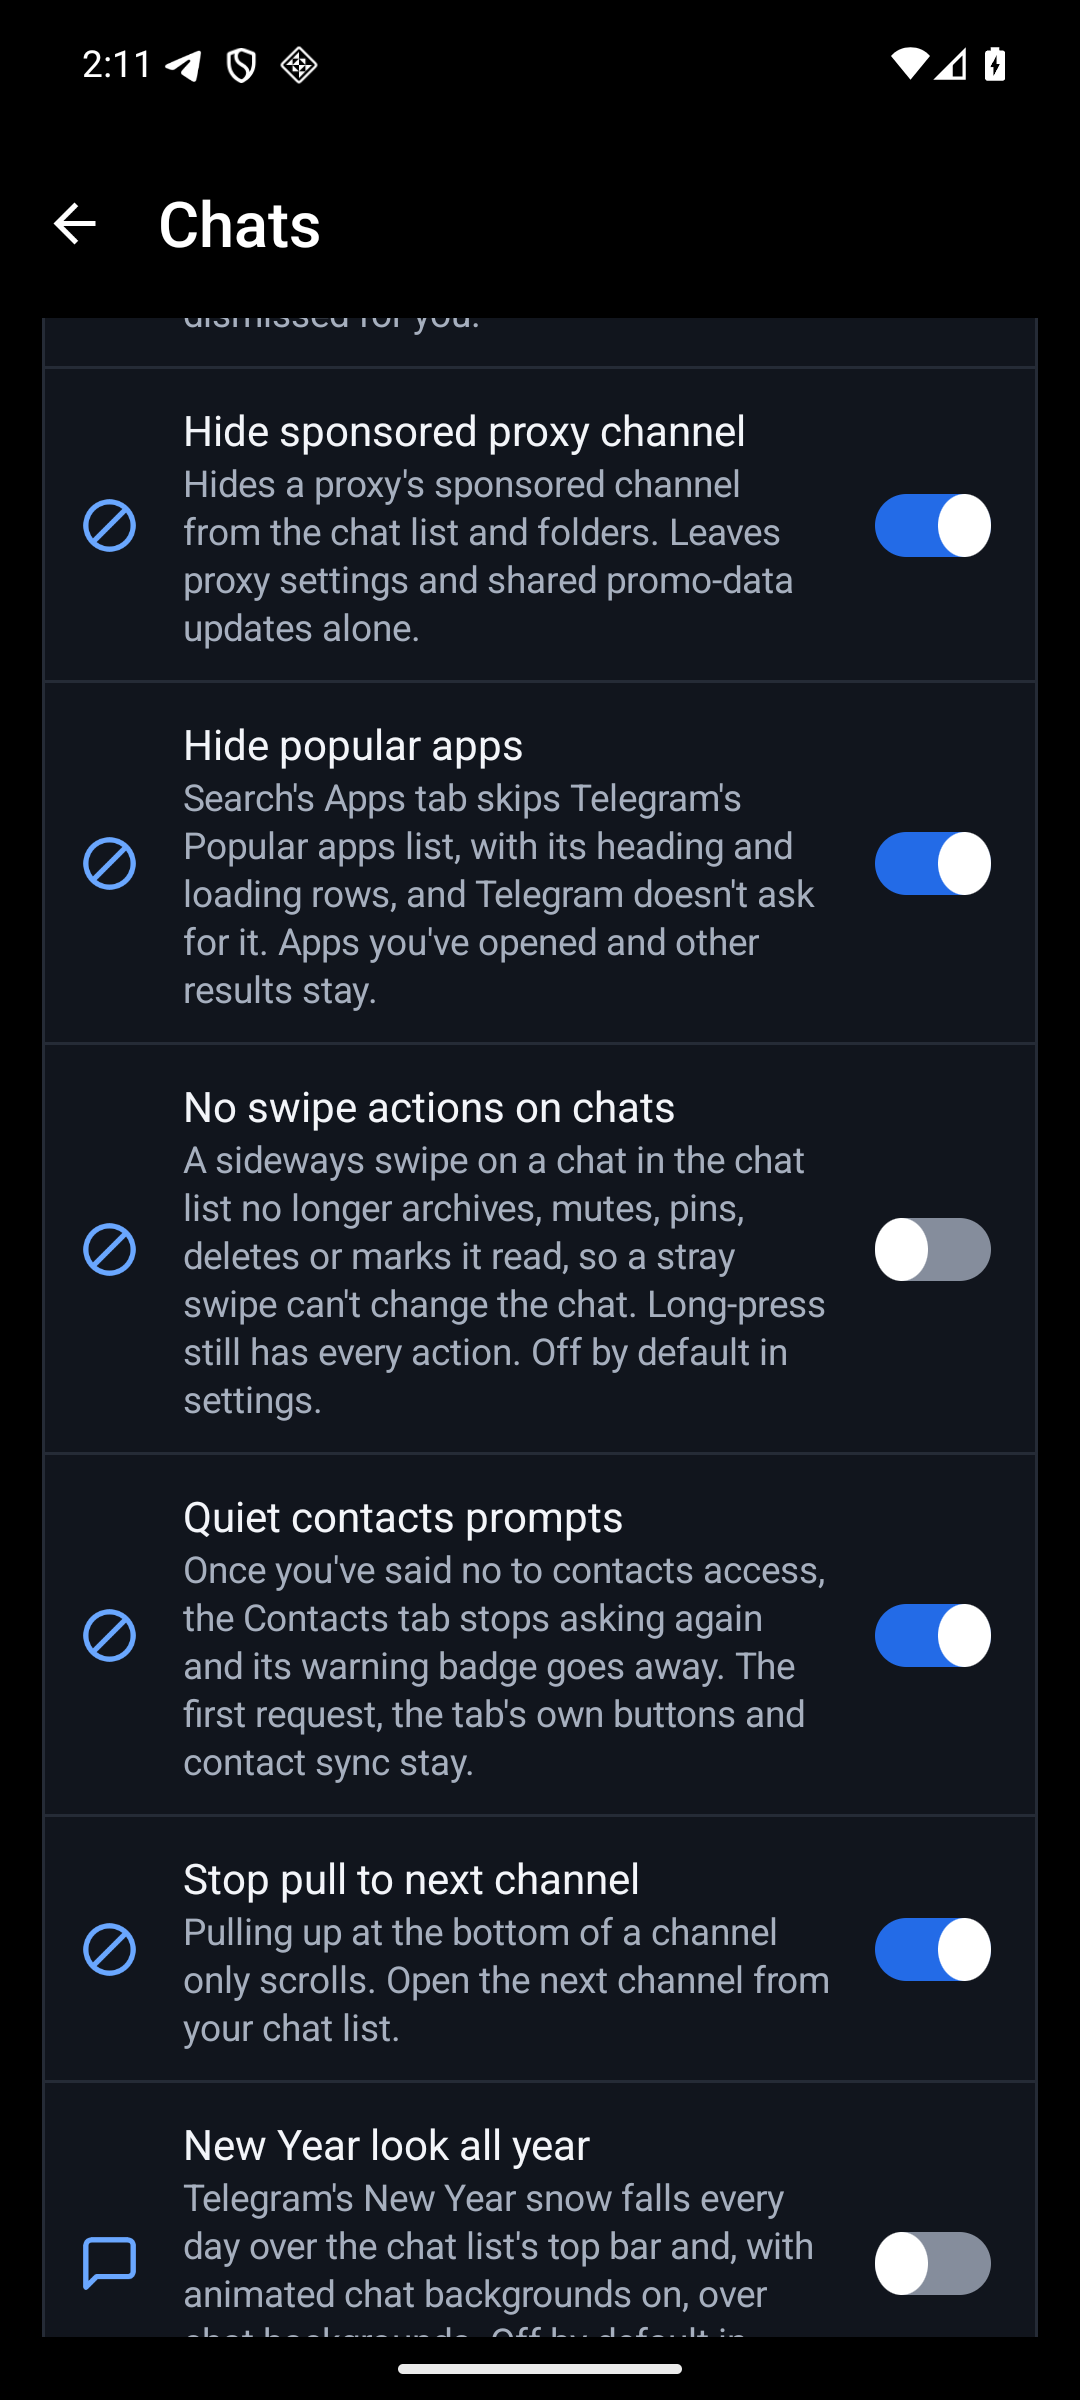
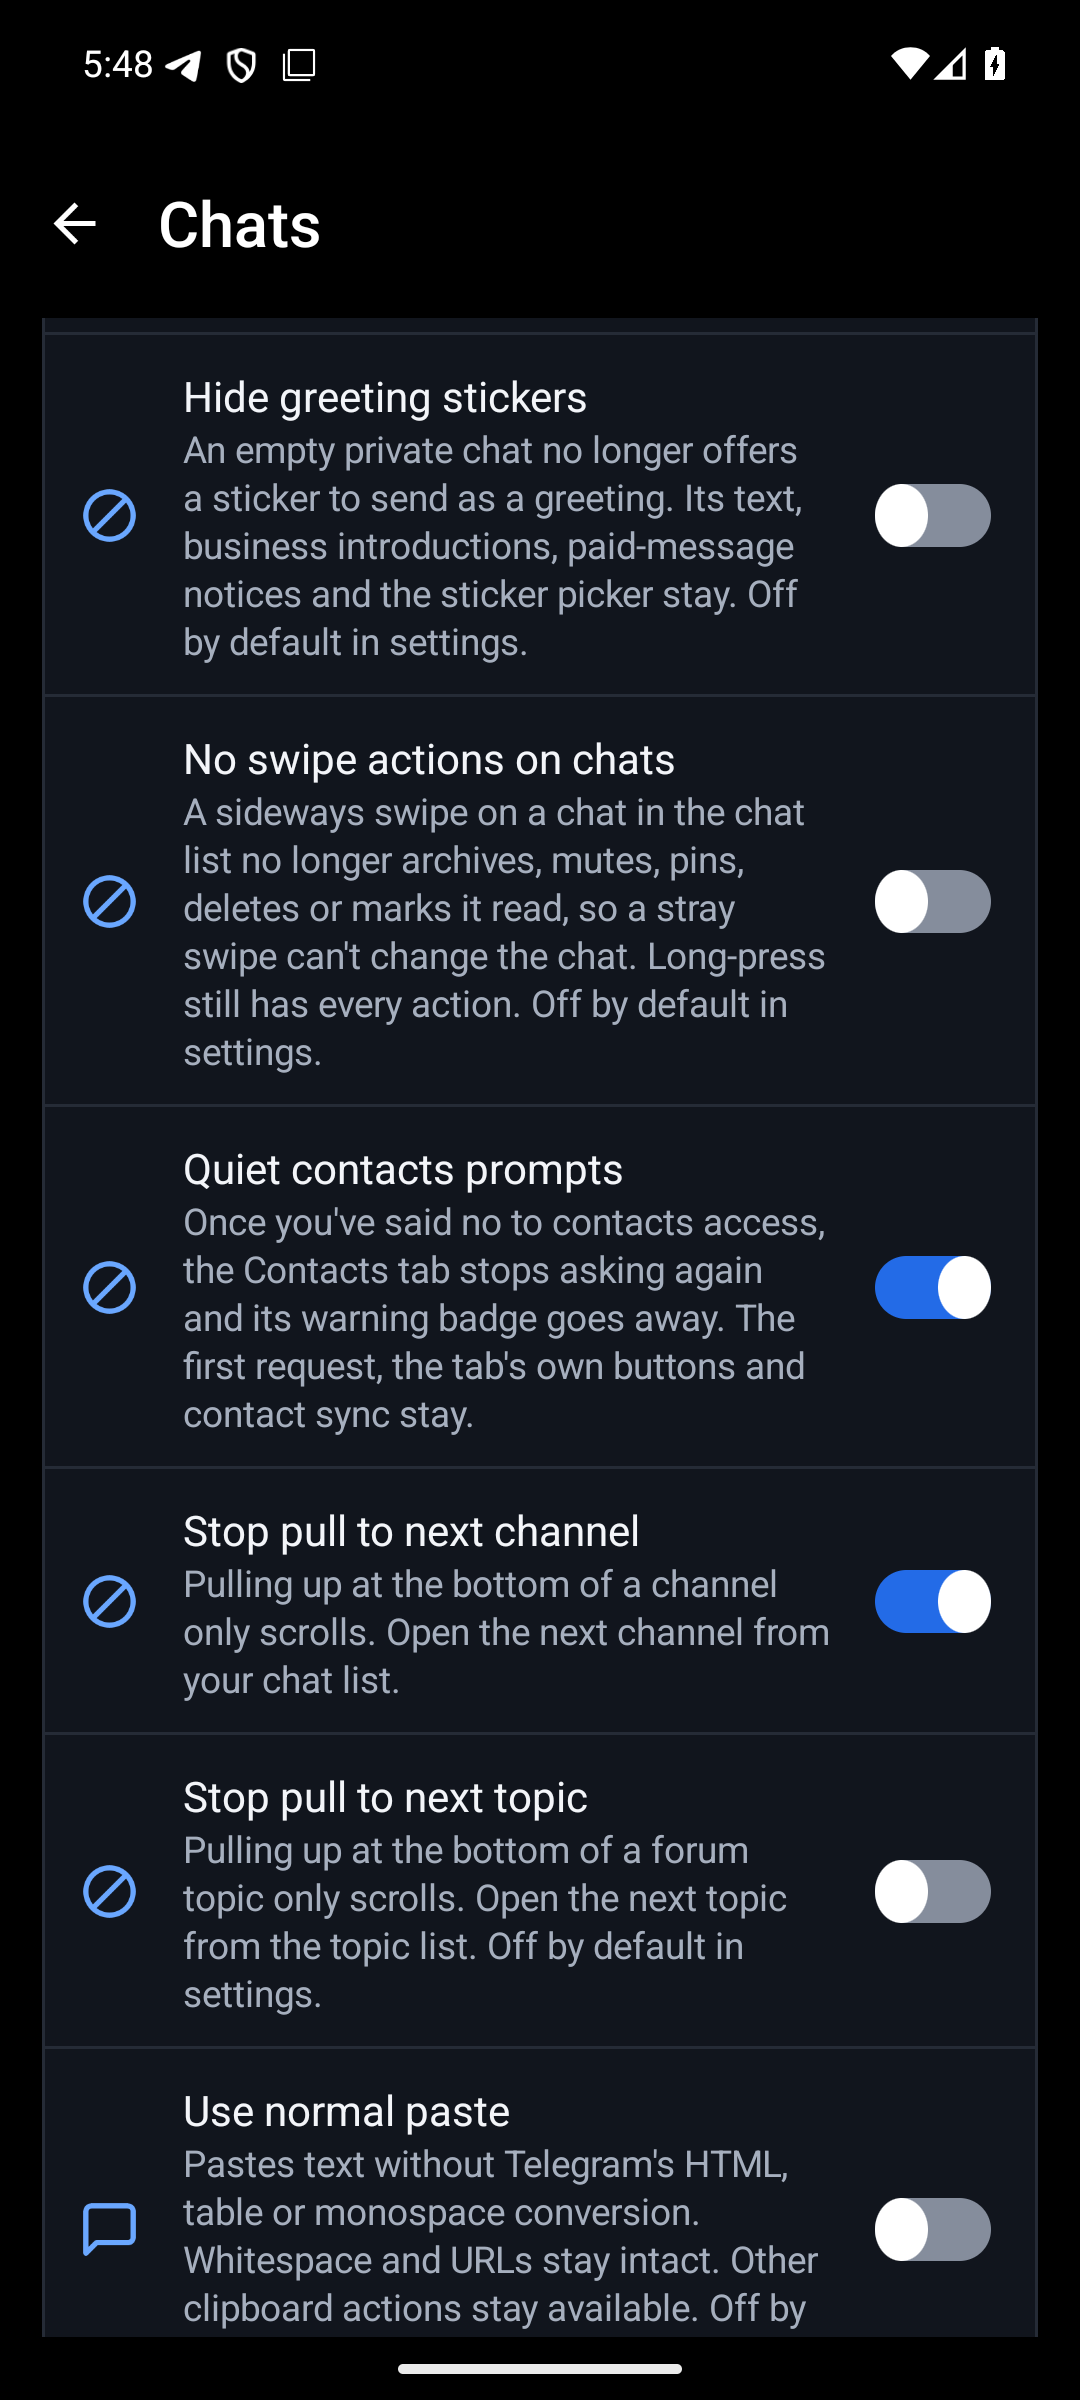
docs: refresh the Chats settings screenshot and note the contacts welcome screen
The channel pull screenshot predates Stop pull to next topic and Hide greeting
stickers, so it's recaptured with both rows at their defaults. The CHANGELOG
says what Hide contacts on Telegram does to an account with no chats.

diff --git a/CHANGELOG.md b/CHANGELOG.md
@@ -4,7 +4,7 @@ Every HushTelegram release, newest first.
 
 ## Unreleased
 
-* **Telegram:** A new Hide contacts on Telegram switch, off by default, takes the Your contacts on Telegram list off a short chat list, along with its heading and the loading rows shown while contacts sync. Chats, folders, contact sync and search don't change. Turning it off or pausing HushTelegram brings the same rows back. A change shows up the next time Telegram rebuilds the chat list, and a restart always does.
+* **Telegram:** A new Hide contacts on Telegram switch, off by default, takes the Your contacts on Telegram list off a short chat list, along with its heading and the loading rows shown while contacts sync. Chats, folders, contact sync and search don't change. With no chats at all, you get the welcome screen Telegram shows when none of your contacts use it. Turning it off or pausing HushTelegram brings the same rows back. A change shows up the next time Telegram rebuilds the chat list, and a restart always does.
 * **Telegram:** A new Hide greeting stickers switch, off by default, takes away the sticker an empty private chat offers to send as a greeting, so a stray tap can't send it. The empty chat's text stays, and business introductions keep their sticker. Premium and paid-message notices, the sticker picker and sending don't change.
 * **Telegram:** Disable pull to next channel has a second switch, Stop pull to next topic, off by default. With it on, pulling up at the bottom of a forum topic only scrolls instead of opening the next topic. Each switch covers only its own pull, and a switch flipped mid-drag counts when you let go.
 

diff --git a/README.md b/README.md
@@ -114,7 +114,7 @@ More settings has separate pages for Pause, Settings backup and Diagnostics. Sea
 
 v0.0.8 added a Notifications page and the channel-pull switch. Both are shown below.
 
-<p><img src="assets/settings-notifications.png" width="320" alt="Notifications settings with the local notification status and the Firebase push registration repair switch"><img src="assets/settings-channel-pull.png" width="320" alt="Chats settings with Stop pull to next channel turned on"></p>
+<p><img src="assets/settings-notifications.png" width="320" alt="Notifications settings with the local notification status and the Firebase push registration repair switch"><img src="assets/settings-channel-pull.png" width="320" alt="Chats settings with Stop pull to next channel turned on, and Stop pull to next topic and Hide greeting stickers off by default"></p>
 
 ## Notifications on a patched Telegram
 
